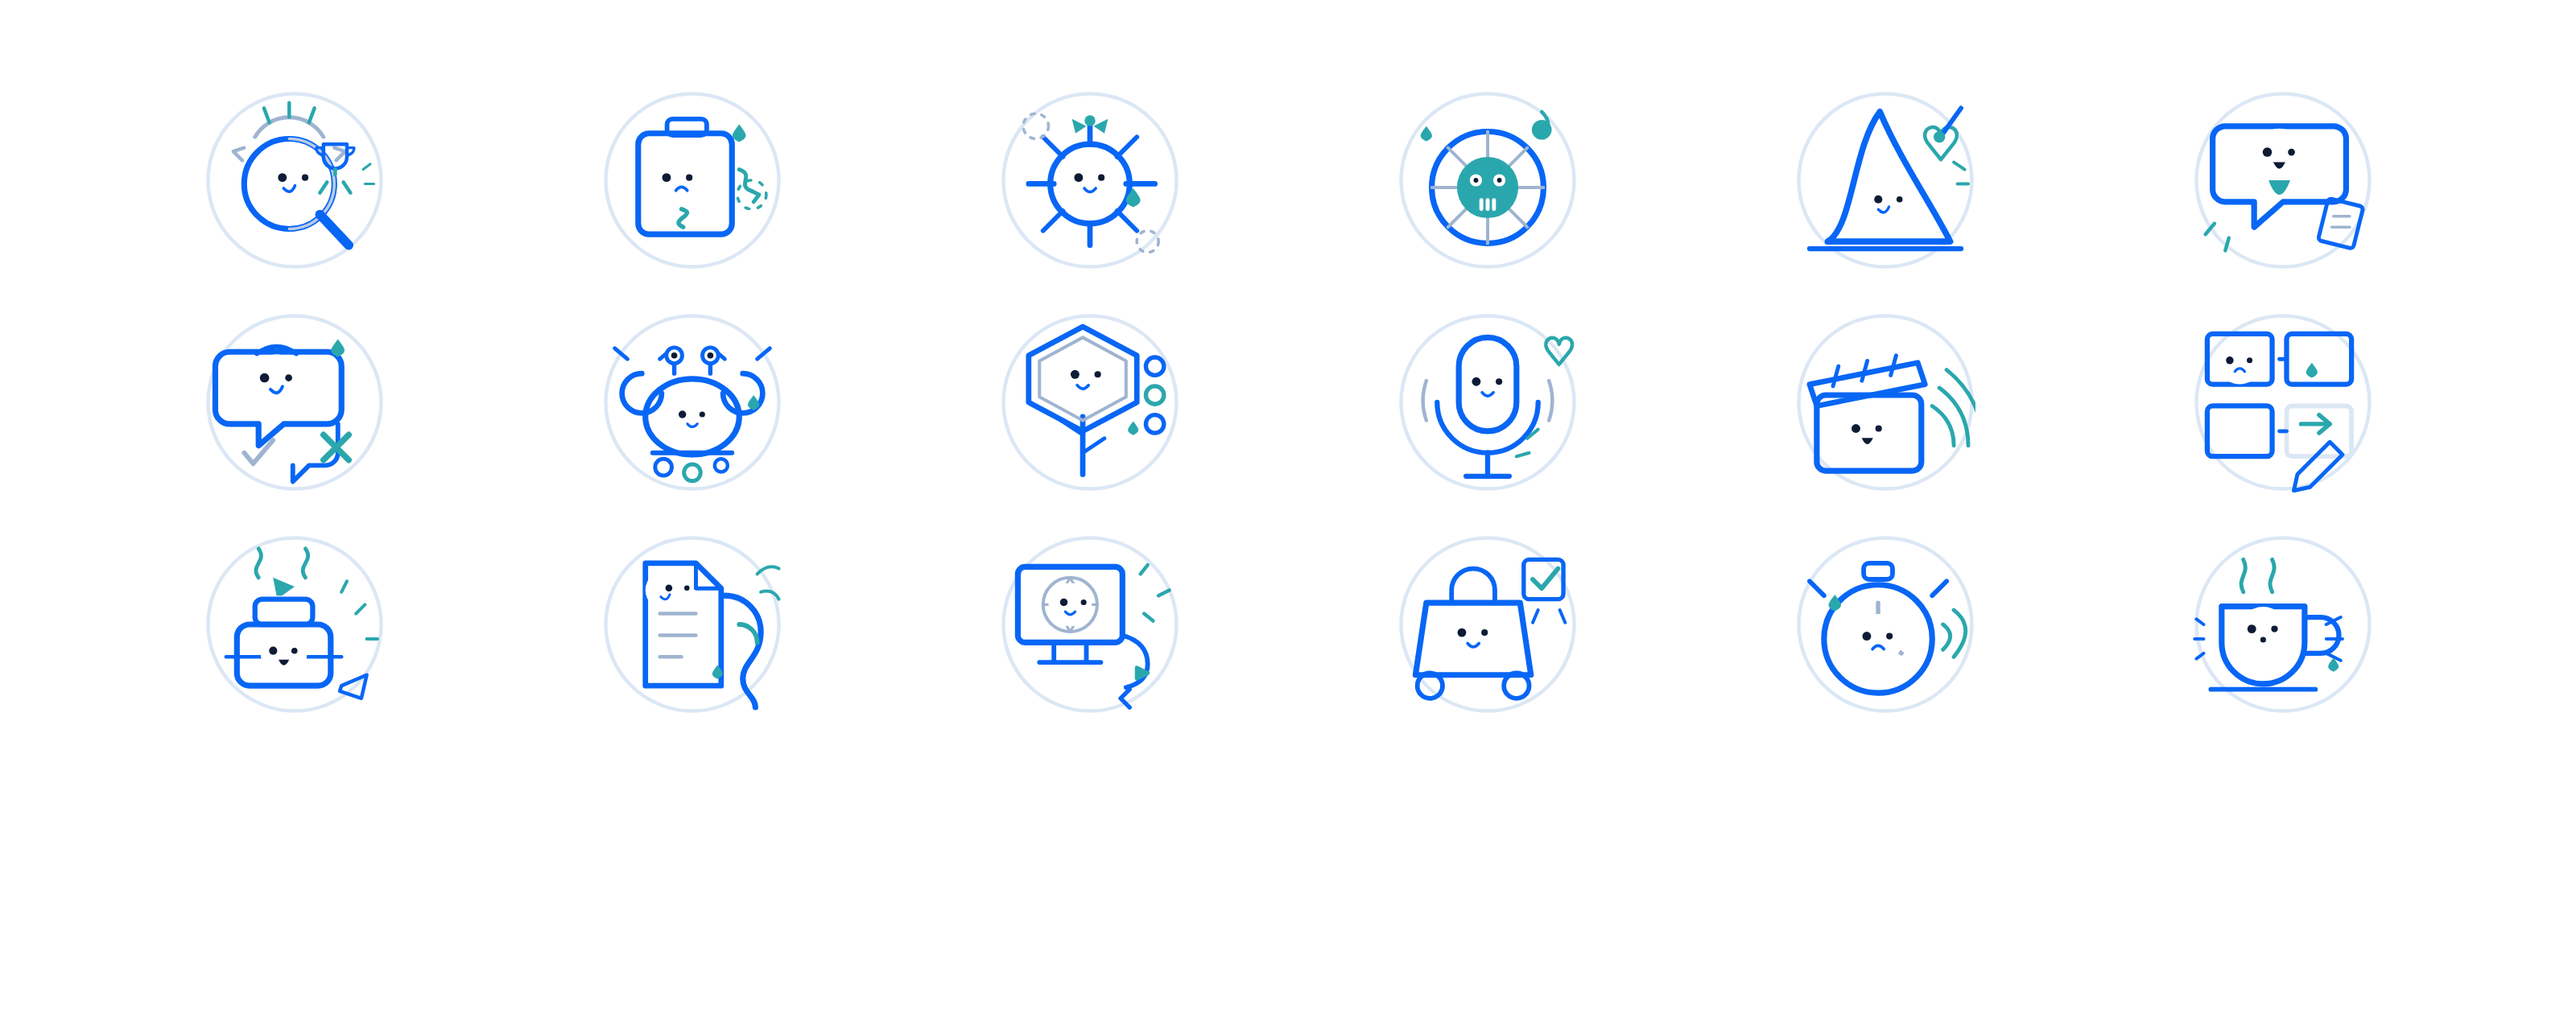
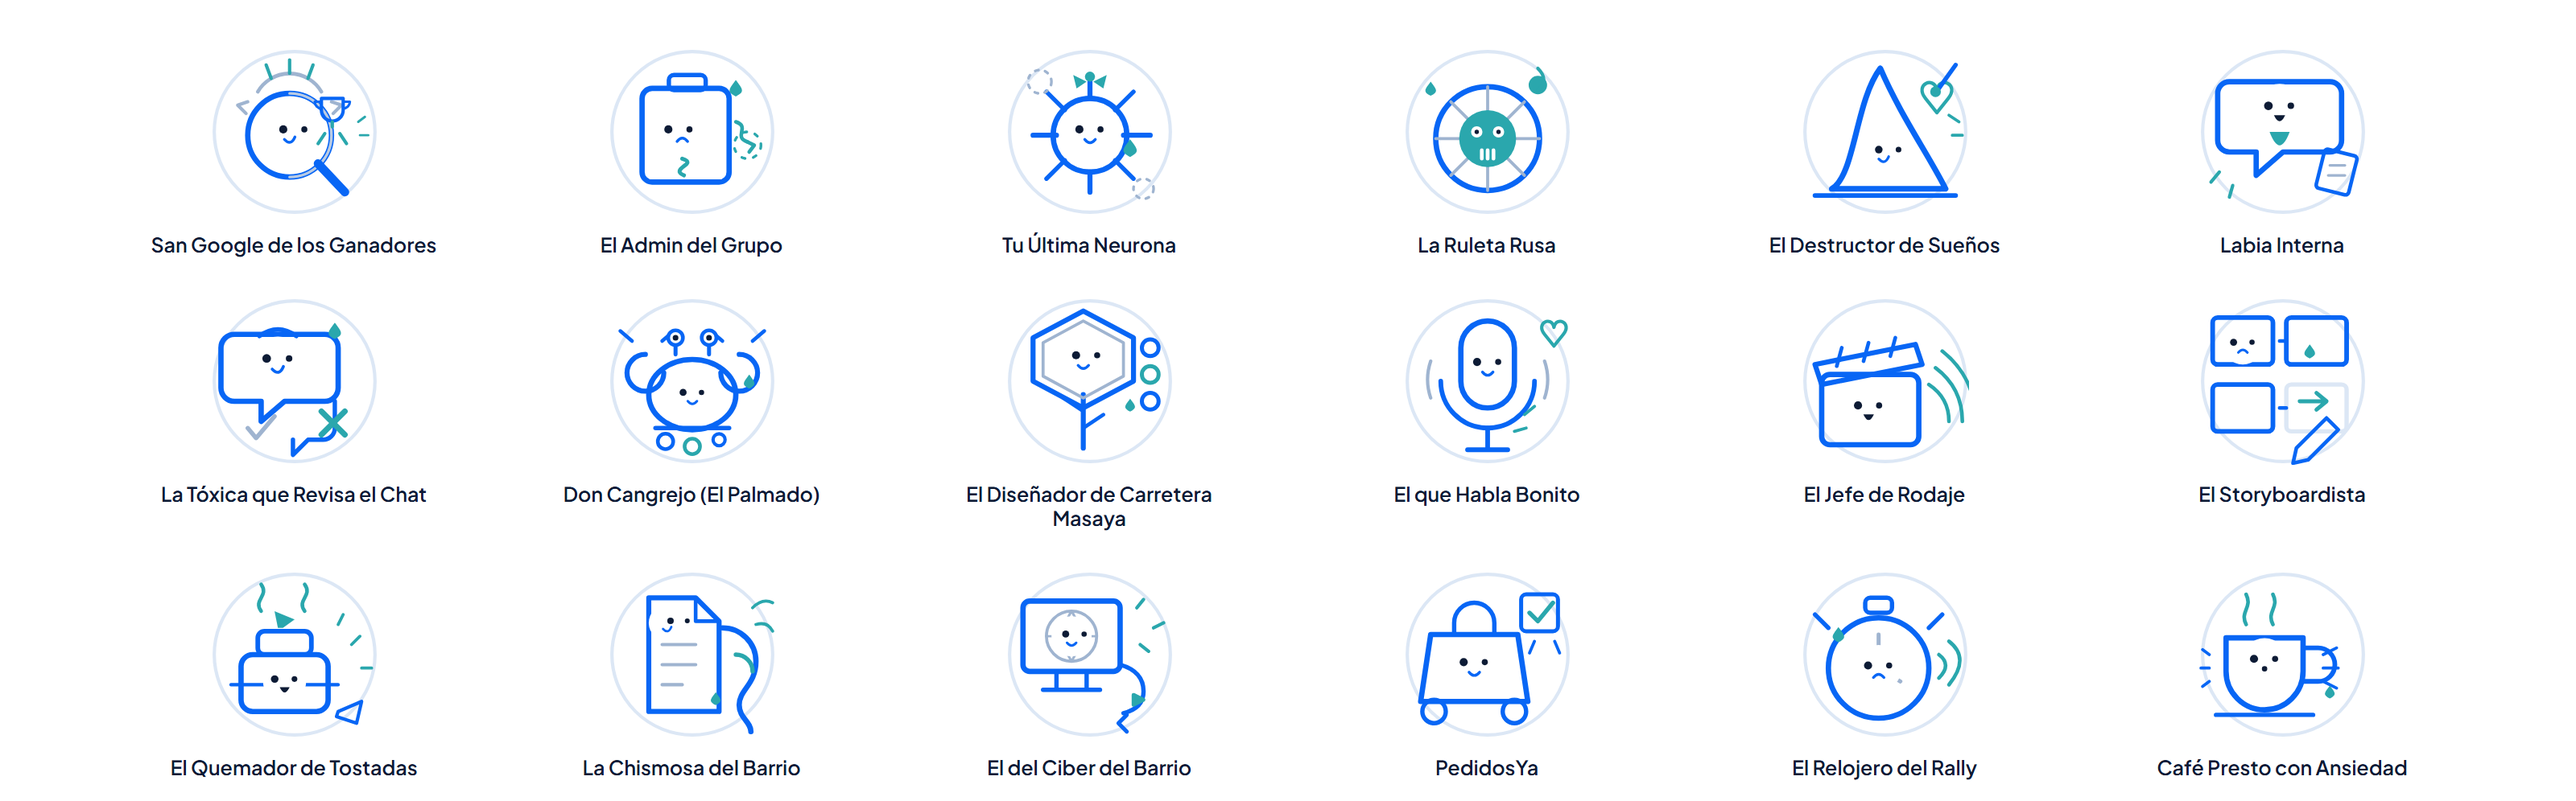
fix(ia): deepseek v4.1 flash por defecto y aviso de api keys

diff --git a/dashboard/app.js b/dashboard/app.js
@@ -4701,6 +4701,8 @@ const AI_MODEL_PATTERNS = {
 
 let _aiModelsCache = null;
 let _aiModelsPromise = null;
+// Modelo del proyecto: va primero en la sugerencia por defecto.
+const AI_PREFERRED_MODEL = "deepseek-v4.1-flash";
 
 async function fetchAIModels() {
   if (_aiModelsCache && _aiModelsCache.length) return _aiModelsCache;
@@ -4720,6 +4722,12 @@ function suggestAIModel(key, models) {
   const pats = AI_MODEL_PATTERNS[key] || [];
   const isFree = m => m.toLowerCase().includes("free");
   const freeModels = models.filter(isFree);
+  // 1. El modelo del proyecto manda: deepseek 4.1 flash, primero.
+  const pref =
+    models.find(m => m === "opencode-go/" + AI_PREFERRED_MODEL) ||
+    models.find(m => m.toLowerCase().includes(AI_PREFERRED_MODEL) && !isFree(m)) ||
+    freeModels.find(m => m.toLowerCase().includes(AI_PREFERRED_MODEL));
+  if (pref) return pref;
   for (const p of pats) {
     const hitFree = freeModels.find(m => m.toLowerCase().includes(p));
     if (hitFree) return hitFree;

diff --git a/scripts/rally_service.py b/scripts/rally_service.py
@@ -1772,6 +1772,9 @@ AI_PROVIDER_TIMEOUT_GENERATE = 600
 AI_PROVIDER_TIMEOUT_PROBE = 8
 AI_MODELS_TTL = 600
 AI_ARG_CHAR_LIMIT = 7000  # limite practico de argumentos en Windows
+# Modelo por defecto del CLI de OpenCode (la sesion la autentica el usuario con
+# `/connect`; aqui no se guarda ninguna clave). RALLY_AI_MODEL lo sobreescribe.
+AI_DEFAULT_MODEL = (os.environ.get("RALLY_AI_MODEL") or "").strip() or "opencode-go/deepseek-v4.1-flash"
 
 AI_JOBS = {}
 AI_MODELS_CACHE = {"ts": 0.0, "models": [], "source": ""}
@@ -2061,7 +2064,7 @@ def _pick_models_for(purpose, models, limit=3):
     """
     patterns = {
         "vision": ["gemini", "flash", "vision", "gpt-4o", "glm-4v", "pixtral", "llava", "internvl", "qwen2-vl"],
-        "quick": ["flash", "haiku", "mini", "fast", "turbo", "1b", "3b", "8b"],
+        "quick": ["deepseek-v4.1-flash", "flash", "haiku", "mini", "fast", "turbo", "1b", "3b", "8b"],
     }.get(purpose, [])
     ranked, seen = [], set()
     free = [m for m in models if "free" in m.lower()]
@@ -2673,6 +2676,9 @@ def _ai_job_worker(job_id, prompt, model):
         if exe.lower().endswith((".cmd", ".bat", ".ps1")):
             cmd = ["cmd", "/c", exe, "run"]
         if model:
+            cmd += ["--model", model]
+        else:
+            model = AI_DEFAULT_MODEL
             cmd += ["--model", model]
         if len(prompt) <= AI_ARG_CHAR_LIMIT:
             cmd.append(prompt)

diff --git a/README.md b/README.md
@@ -55,7 +55,7 @@ La etapa siguiente se abre cuando el entregable existe. Si falta, la app lo dice
 ## Dieciocho asistentes, cada uno con su oficio
 
 <div align="center">
-  <img src="assets/readme/asistentes.png" alt="Los dieciocho asistentes del sistema, cada uno con su avatar" width="100%">
+  <img src="assets/readme/asistentes.png" alt="Los dieciocho asistentes del sistema, cada uno con su avatar y su nombre" width="100%">
 </div>
 
 Se invocan a demanda desde `skills/` y se reflejan en `.opencode/skills` y `.agents/skills`. Investigan, cotizan, auditan y rompen la idea antes de que lo haga el jurado.
